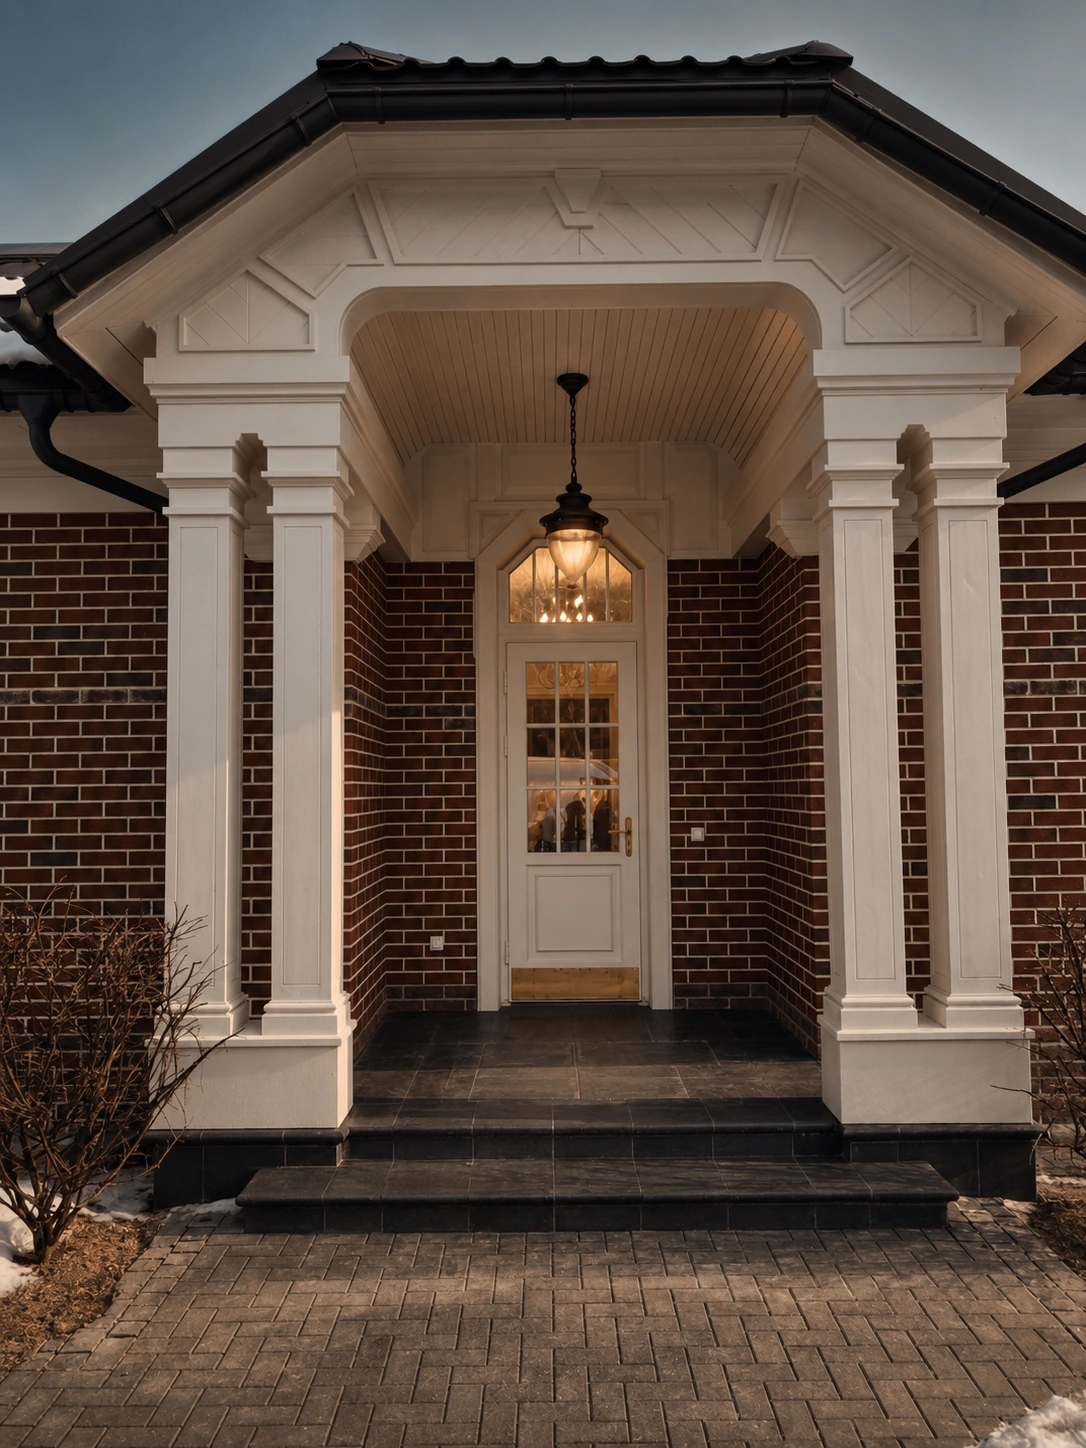
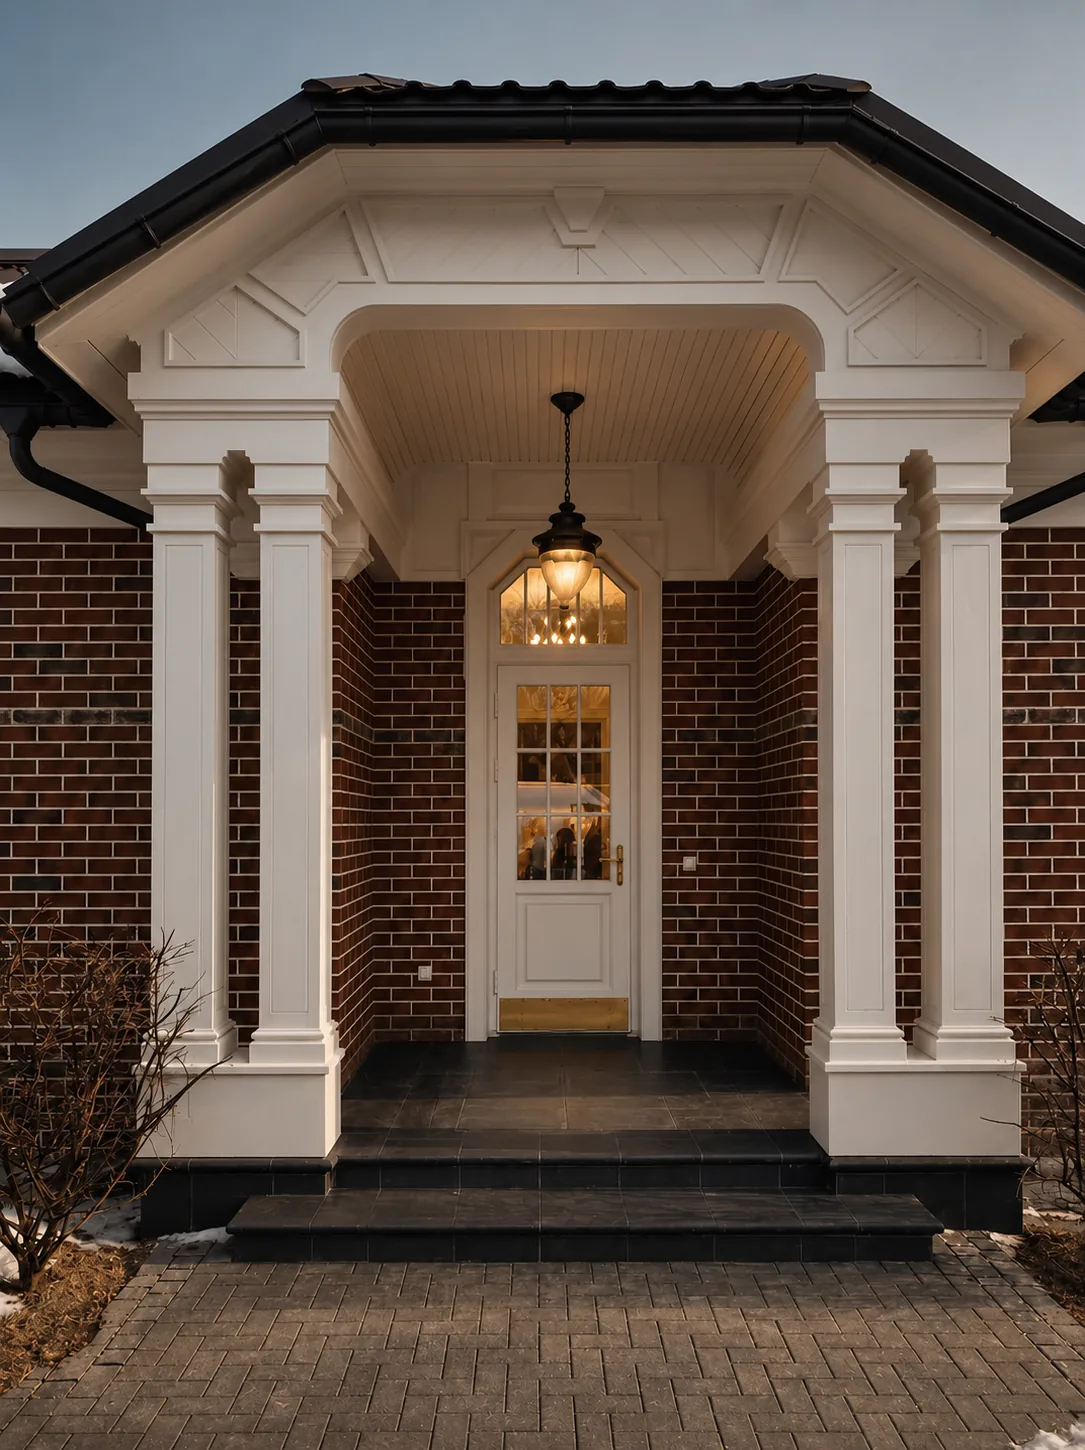
Repino: replace cover with entrance photo (#37)
* Replace Dom v Repino cover with entrance photo

Use the owner-provided Drive entrance shot as img-01 / first gallery
frame and bump media cache version.

* Bump media cache after Repino cover replace

---------

diff --git a/frontend/src/App.tsx b/frontend/src/App.tsx
@@ -28,7 +28,7 @@ type PublicProject = { id?: number; slug?: string; title: string; summary?: stri
 type PublicContent = { settings: Record<string, string>; sections: ContentSection[]; projects: PublicProject[]; telegram_username?: string }
 type Project = { title: string; place: string; area: string; status?: string; kind: 'Дом' | 'Квартира'; summary: string; media: string[]; plan: 'line' | 'courtyard' | 'compact' }
 
-const MEDIA_CACHE_VERSION = '20260731b'
+const MEDIA_CACHE_VERSION = '20260731c'
 const withMediaVersion = (url: string) => {
   if (!url.startsWith('/media/')) return url
   const join = url.includes('?') ? '&' : '?'
